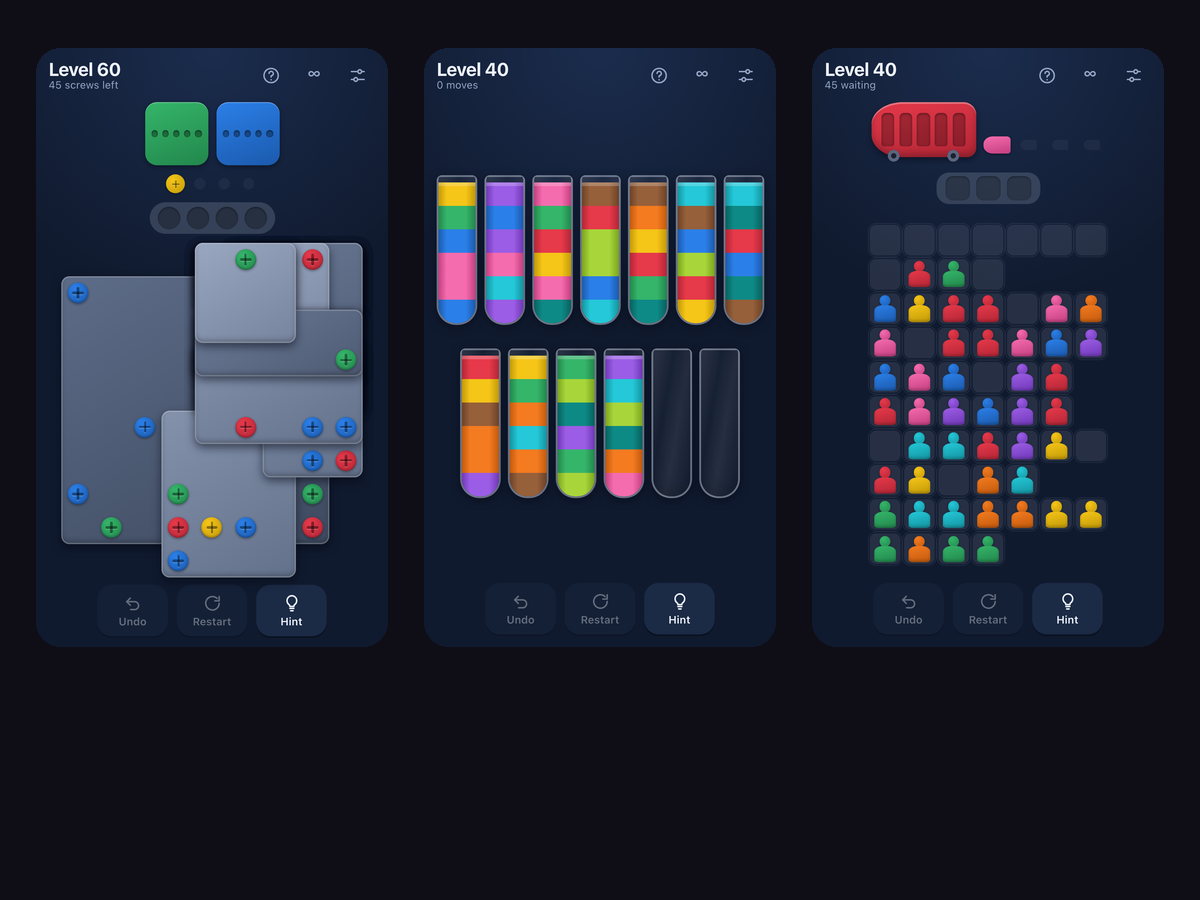
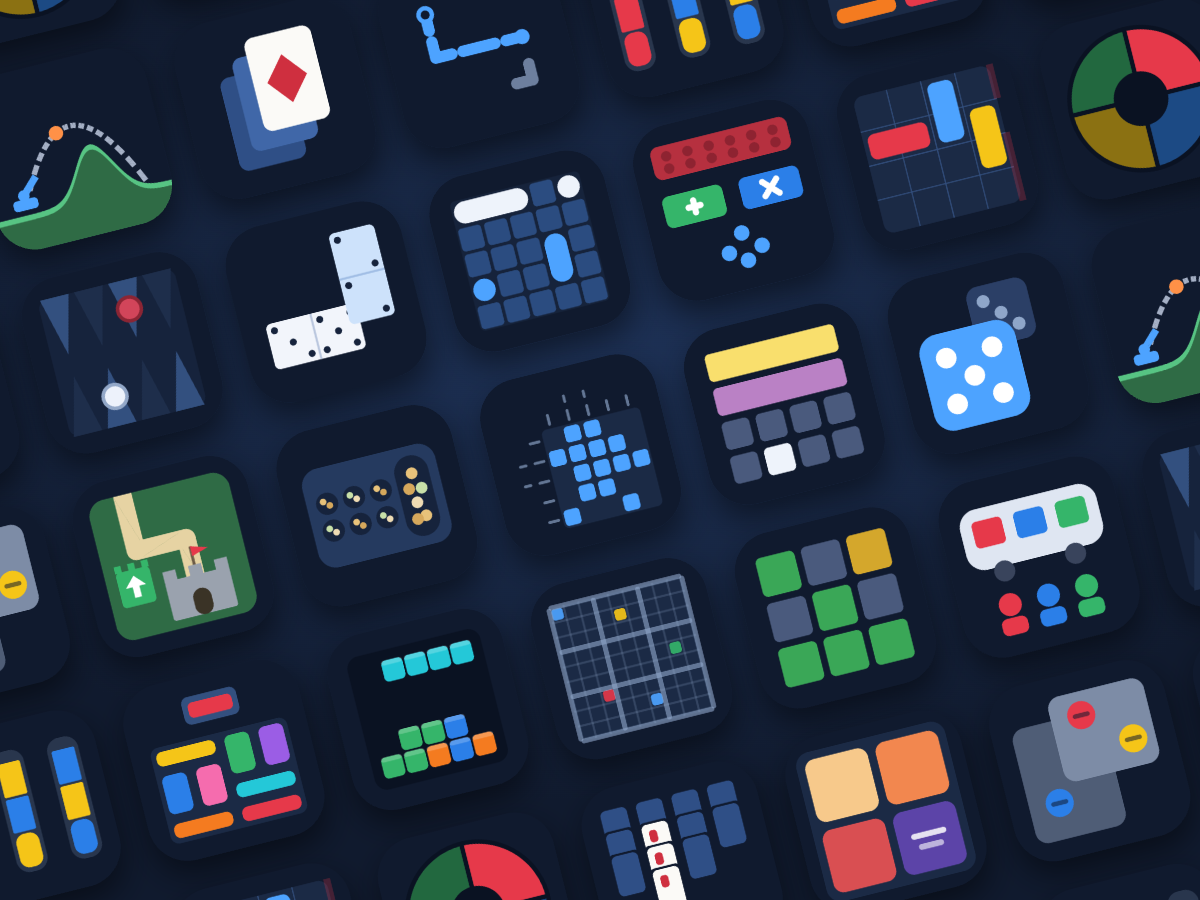
Add Quilts by Megan to the portfolio's Selected Work
A new card links to quilts-by-megan.web.app, the portfolio and
commissions site I built for Megan. It sits after Games with the other
personal projects, so the grid now runs to seven cards: a row of four
and a row of three on wide screens.

Its thumbnail is a headless Chrome capture of the site's landing page at
1200x900, the same size as Games.png, so it fills the 4:3 card frame
without cropping away the headline or the row of quilt photos. This
also ships a refreshed Games.png that was already waiting in the tree.

diff --git a/public/index.html b/public/index.html
@@ -423,6 +423,17 @@
                     </div>
                 </a>
 
+                <a href="https://quilts-by-megan.web.app/" target="_blank" class="pf-card fade-up">
+                    <div class="pf-img-wrap">
+                        <img src="assets/portfolio/Quilts.png" alt="Quilts by Megan" loading="lazy">
+                    </div>
+                    <div class="pf-meta">
+                        <span class="pf-tag">Portfolio</span>
+                        <h3 class="pf-title">Quilts by Megan</h3>
+                        <p class="pf-desc">Handmade quilt portfolio and commissions</p>
+                    </div>
+                </a>
+
                 <a href="https://www.linkedin.com/feed/update/urn:li:activity:6511372281313398785" target="_blank"
                     class="pf-card fade-up">
                     <div class="pf-img-wrap">
